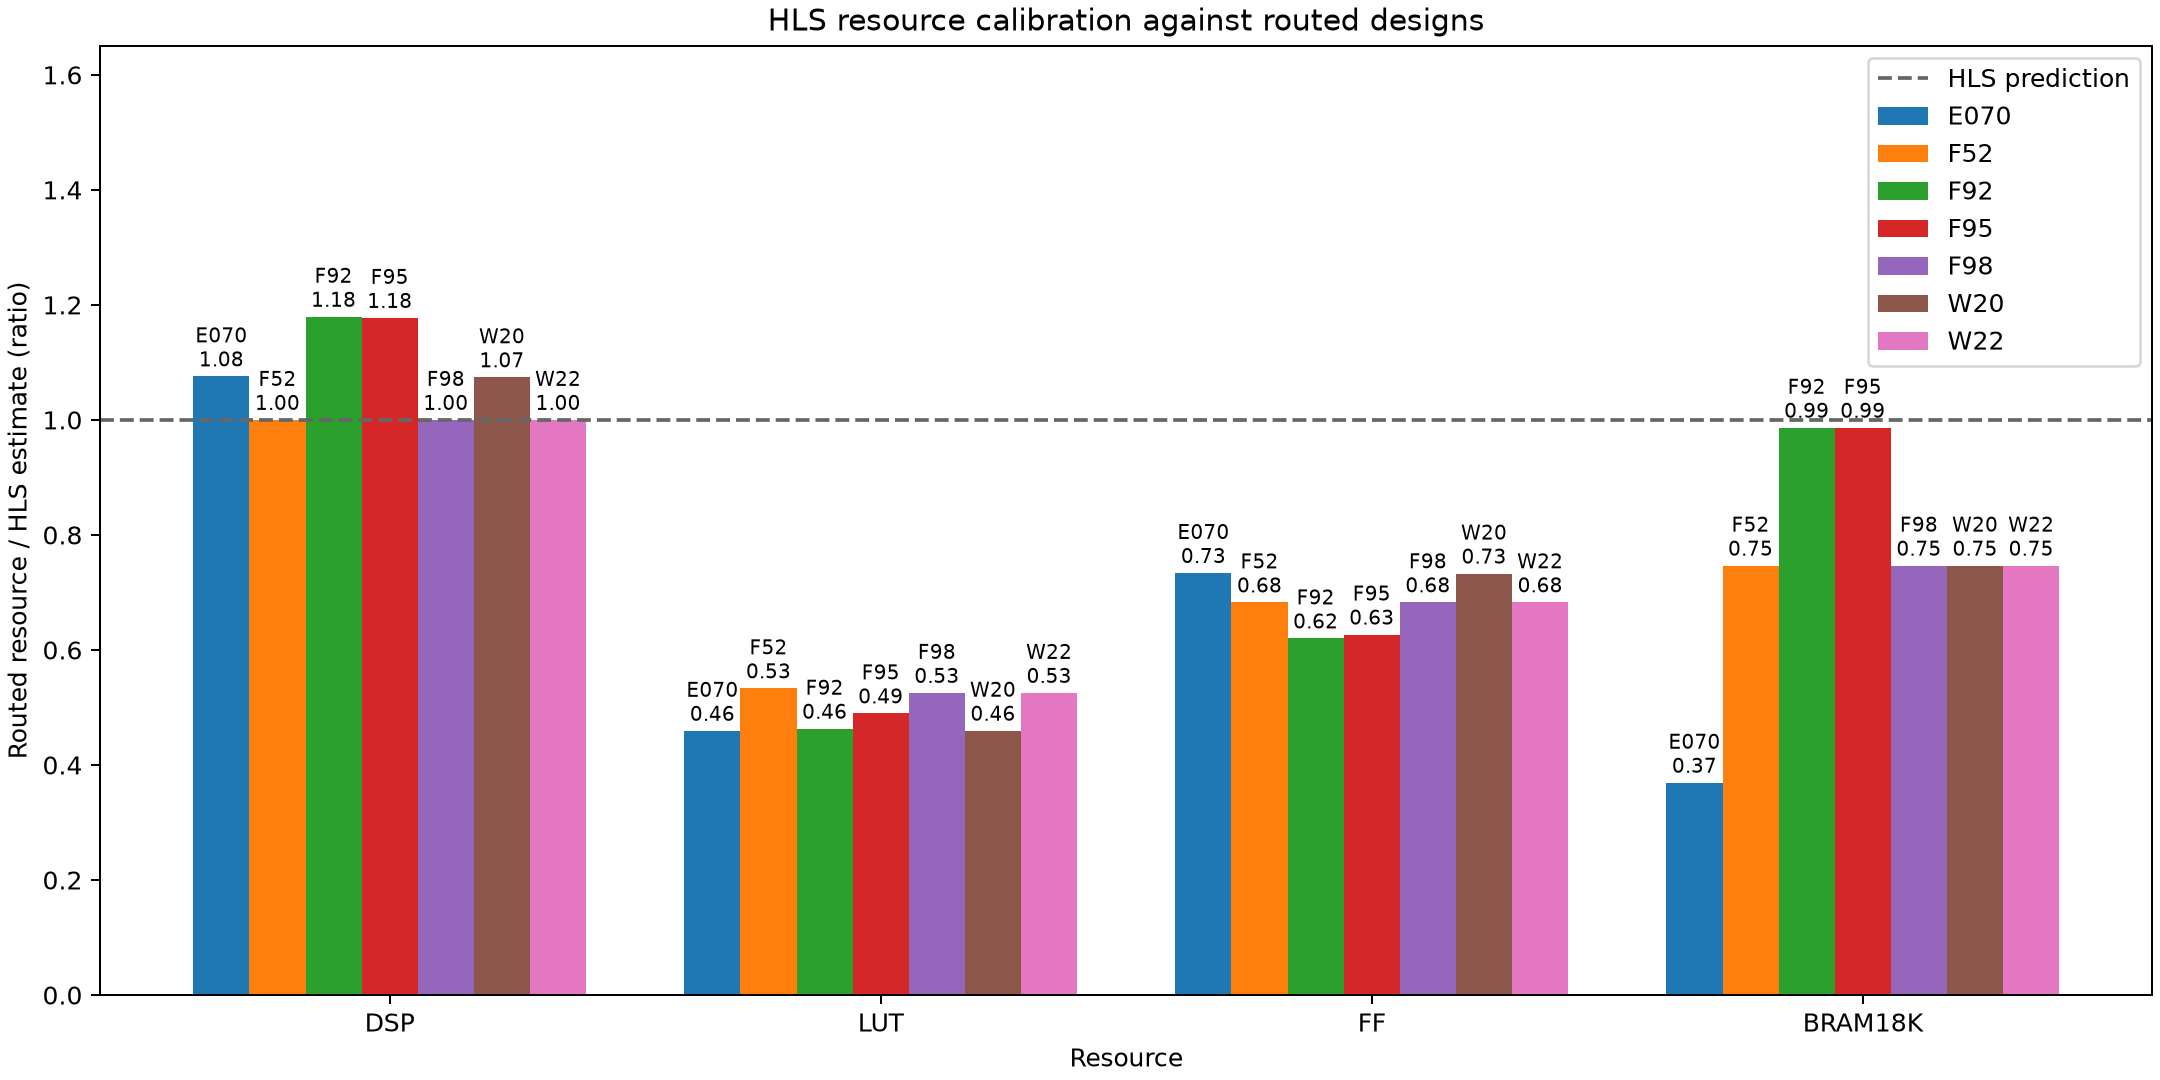
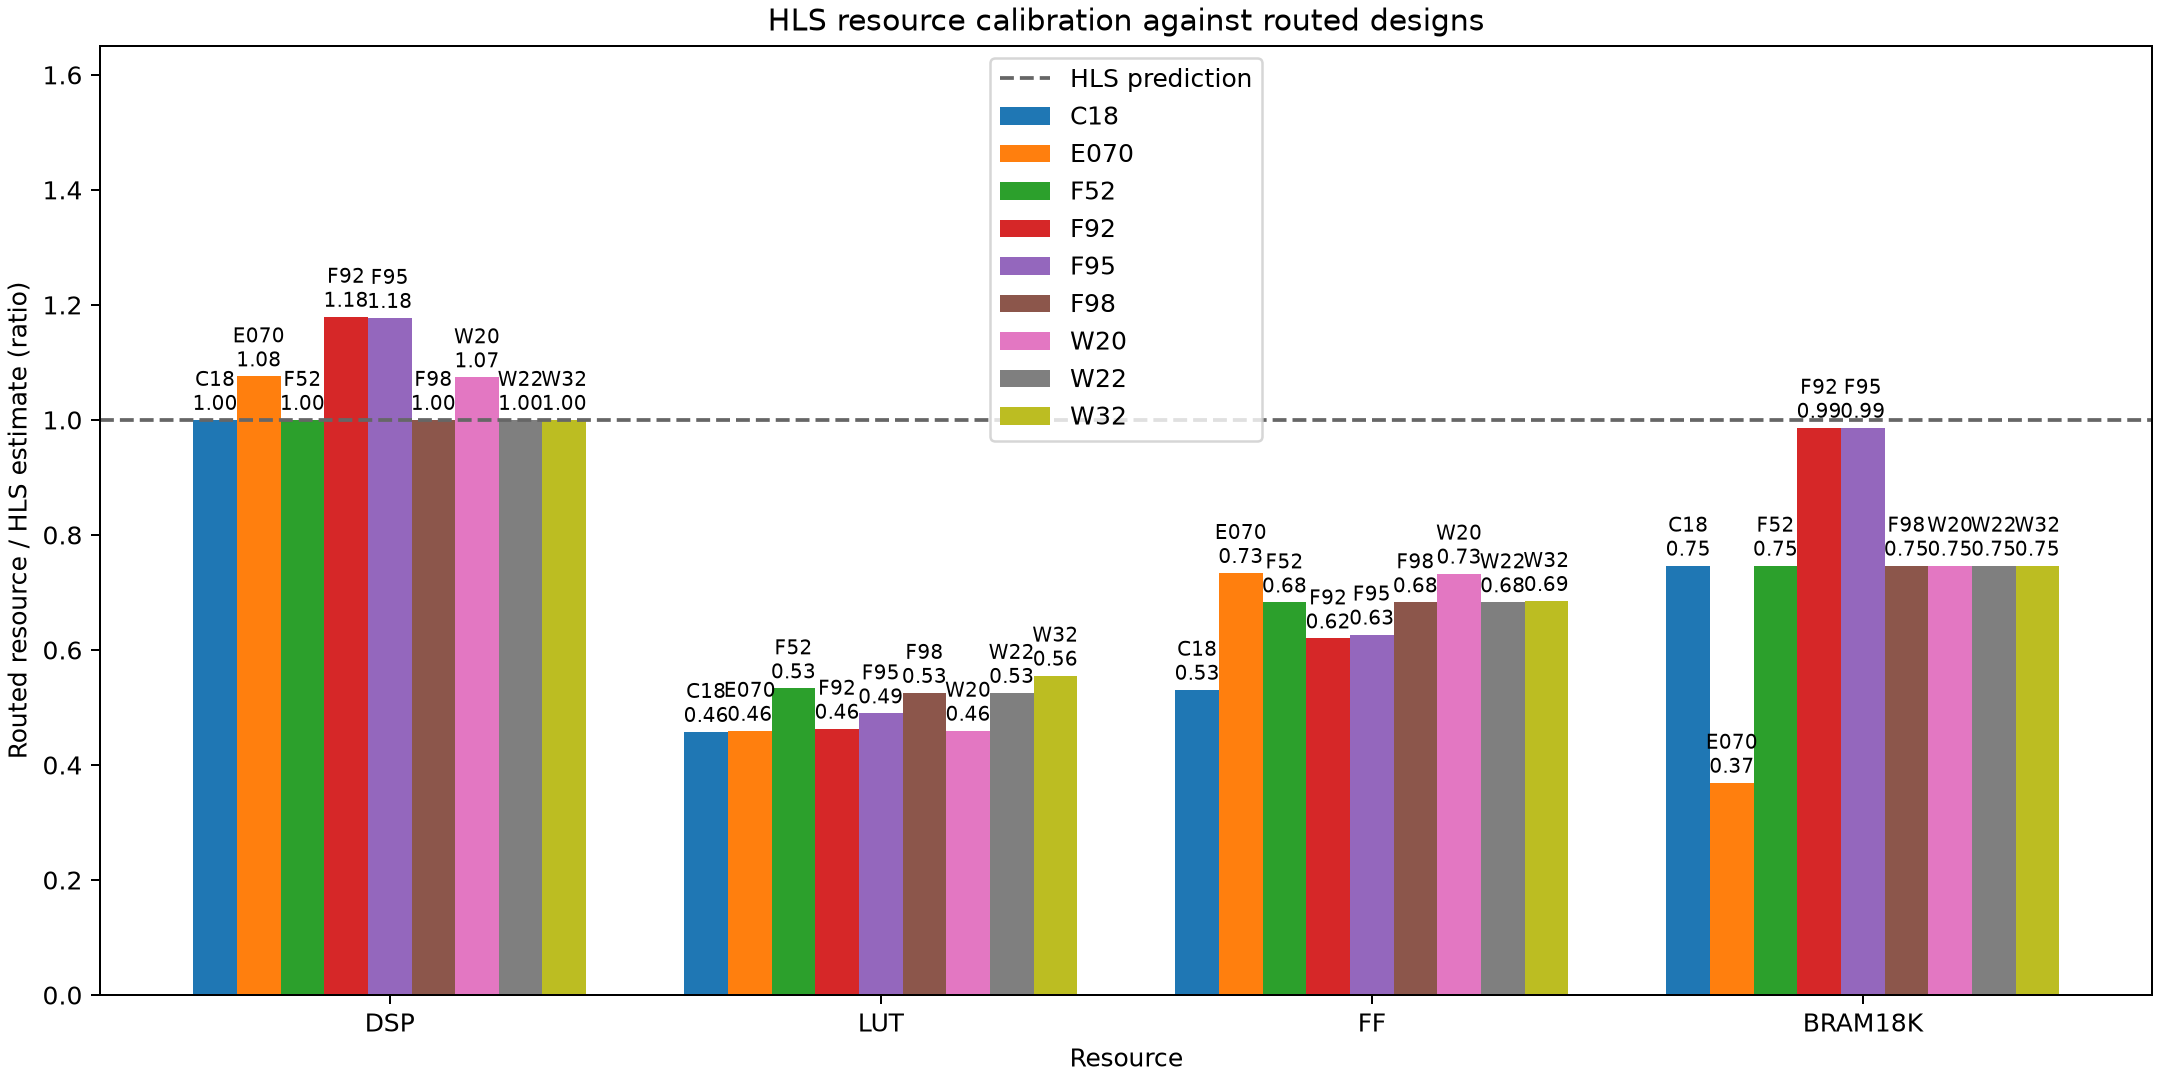
C18 archive_route_plots_and_recovery_sessions

diff --git a/experiments/ROM_CLOCK.md b/experiments/ROM_CLOCK.md
@@ -1,6 +1,6 @@
 # ROM, clock, FIFO and T4 workstream
 
-Plan: [docs/0005](../docs/0005-rom-clock-t4-plan.md). Updated 2026-10-12T13:38:34+00:00.
+Plan: [docs/0005](../docs/0005-rom-clock-t4-plan.md). Updated 2026-10-12T13:52:43+00:00.
 
 The user-accepted F47/F48 deep-window design is the T8 mainline basis; W21 remains the independently routed integration fallback. ROM is an independent experiment. Set14 means the complete 13-image course-provided set. Final resource acceptance uses independent OOC routed timing/utilization; archived HLS statuses are unchanged. No board performance is inferred.
 

diff --git a/experiments/PROGRESS.md b/experiments/PROGRESS.md
@@ -10,7 +10,7 @@ See [ROM_CLOCK.md](ROM_CLOCK.md) and [rom_clock_state.json](rom_clock_state.json
 
 <!-- ROM_CLOCK_CURRENT -->
 
-Updated 2026-10-12T13:38:34+00:00 from archived measurements.
+Updated 2026-10-12T13:52:42+00:00 from archived measurements.
 
 Branch: `exp/explore-arch`, from phase-one final `2fa7249`. Original46 files and45 first-phase design files remain checksum protected. Preserve user README/.gitignore/docs-index edits.
 

diff --git a/experiments/ARCH_SUMMARY.md b/experiments/ARCH_SUMMARY.md
@@ -926,4 +926,4 @@ Final local/remote original and first-phase source checksum and report-provenanc
 
 ![Conv3 core and pad resource comparison](figs/conv3_core_resources.png)
 
-Generated from archived evidence at 2026-10-12T13:38:34+00:00.
+Generated from archived evidence at 2026-10-12T13:52:43+00:00.
